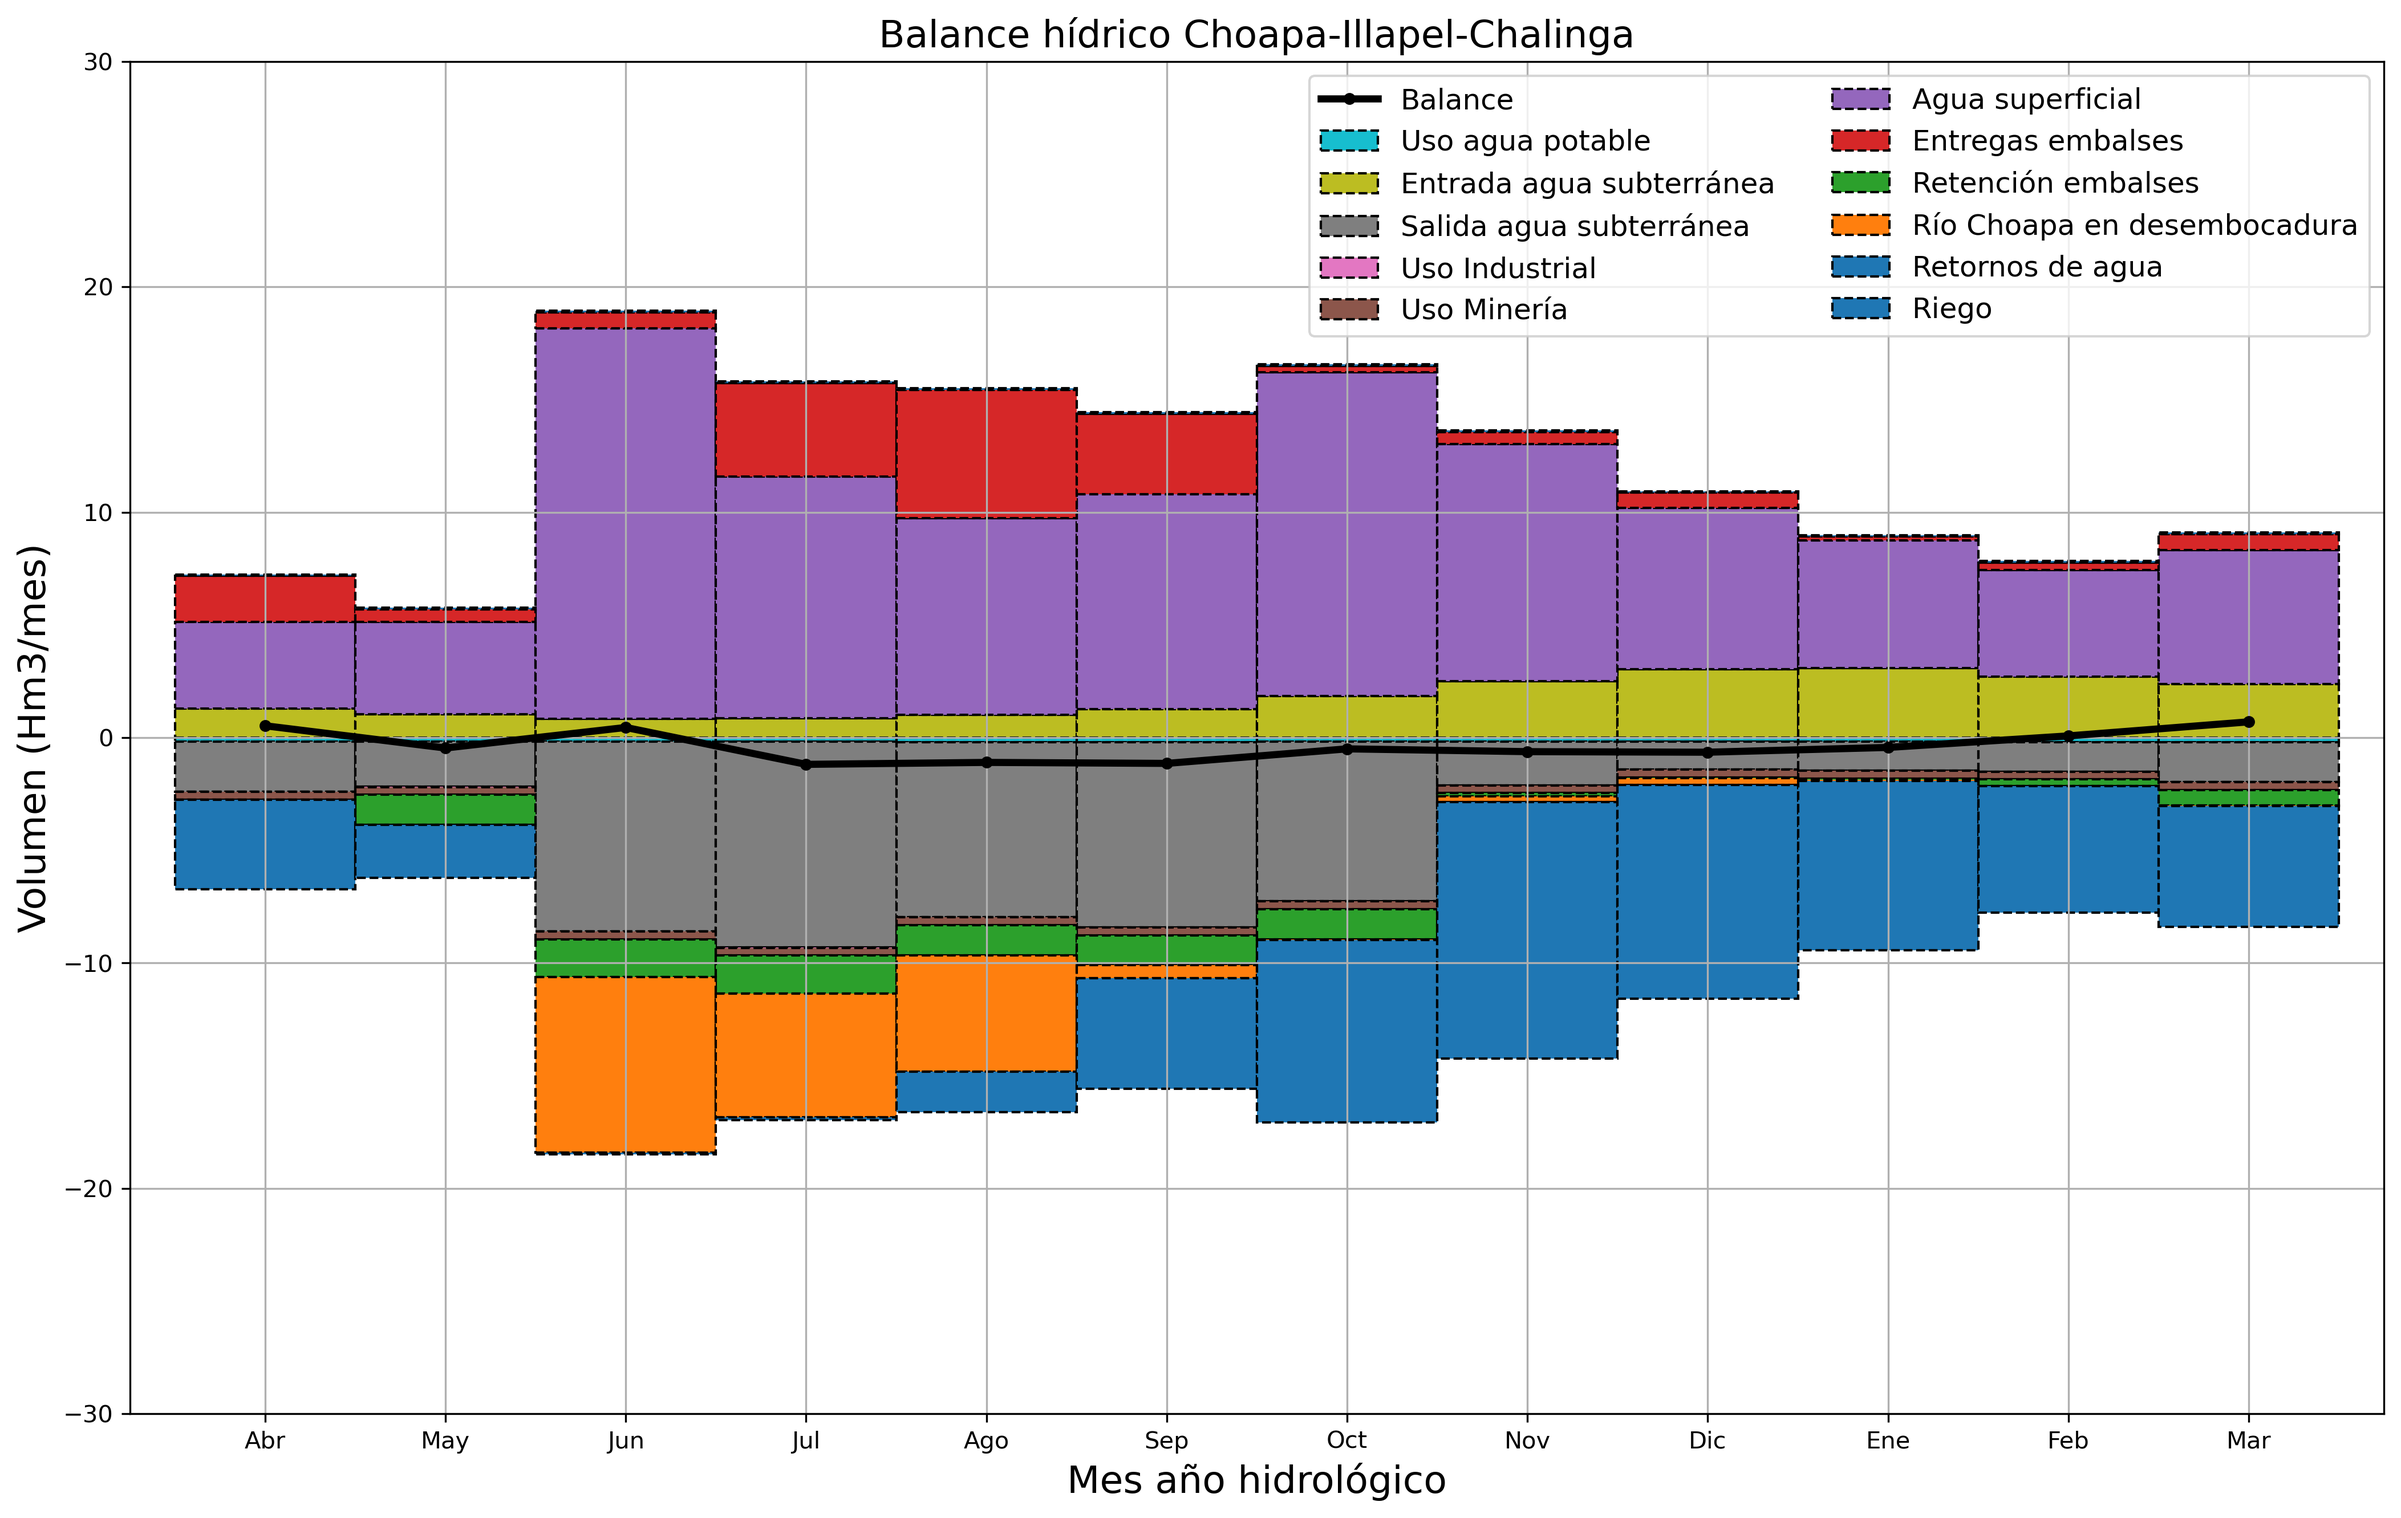
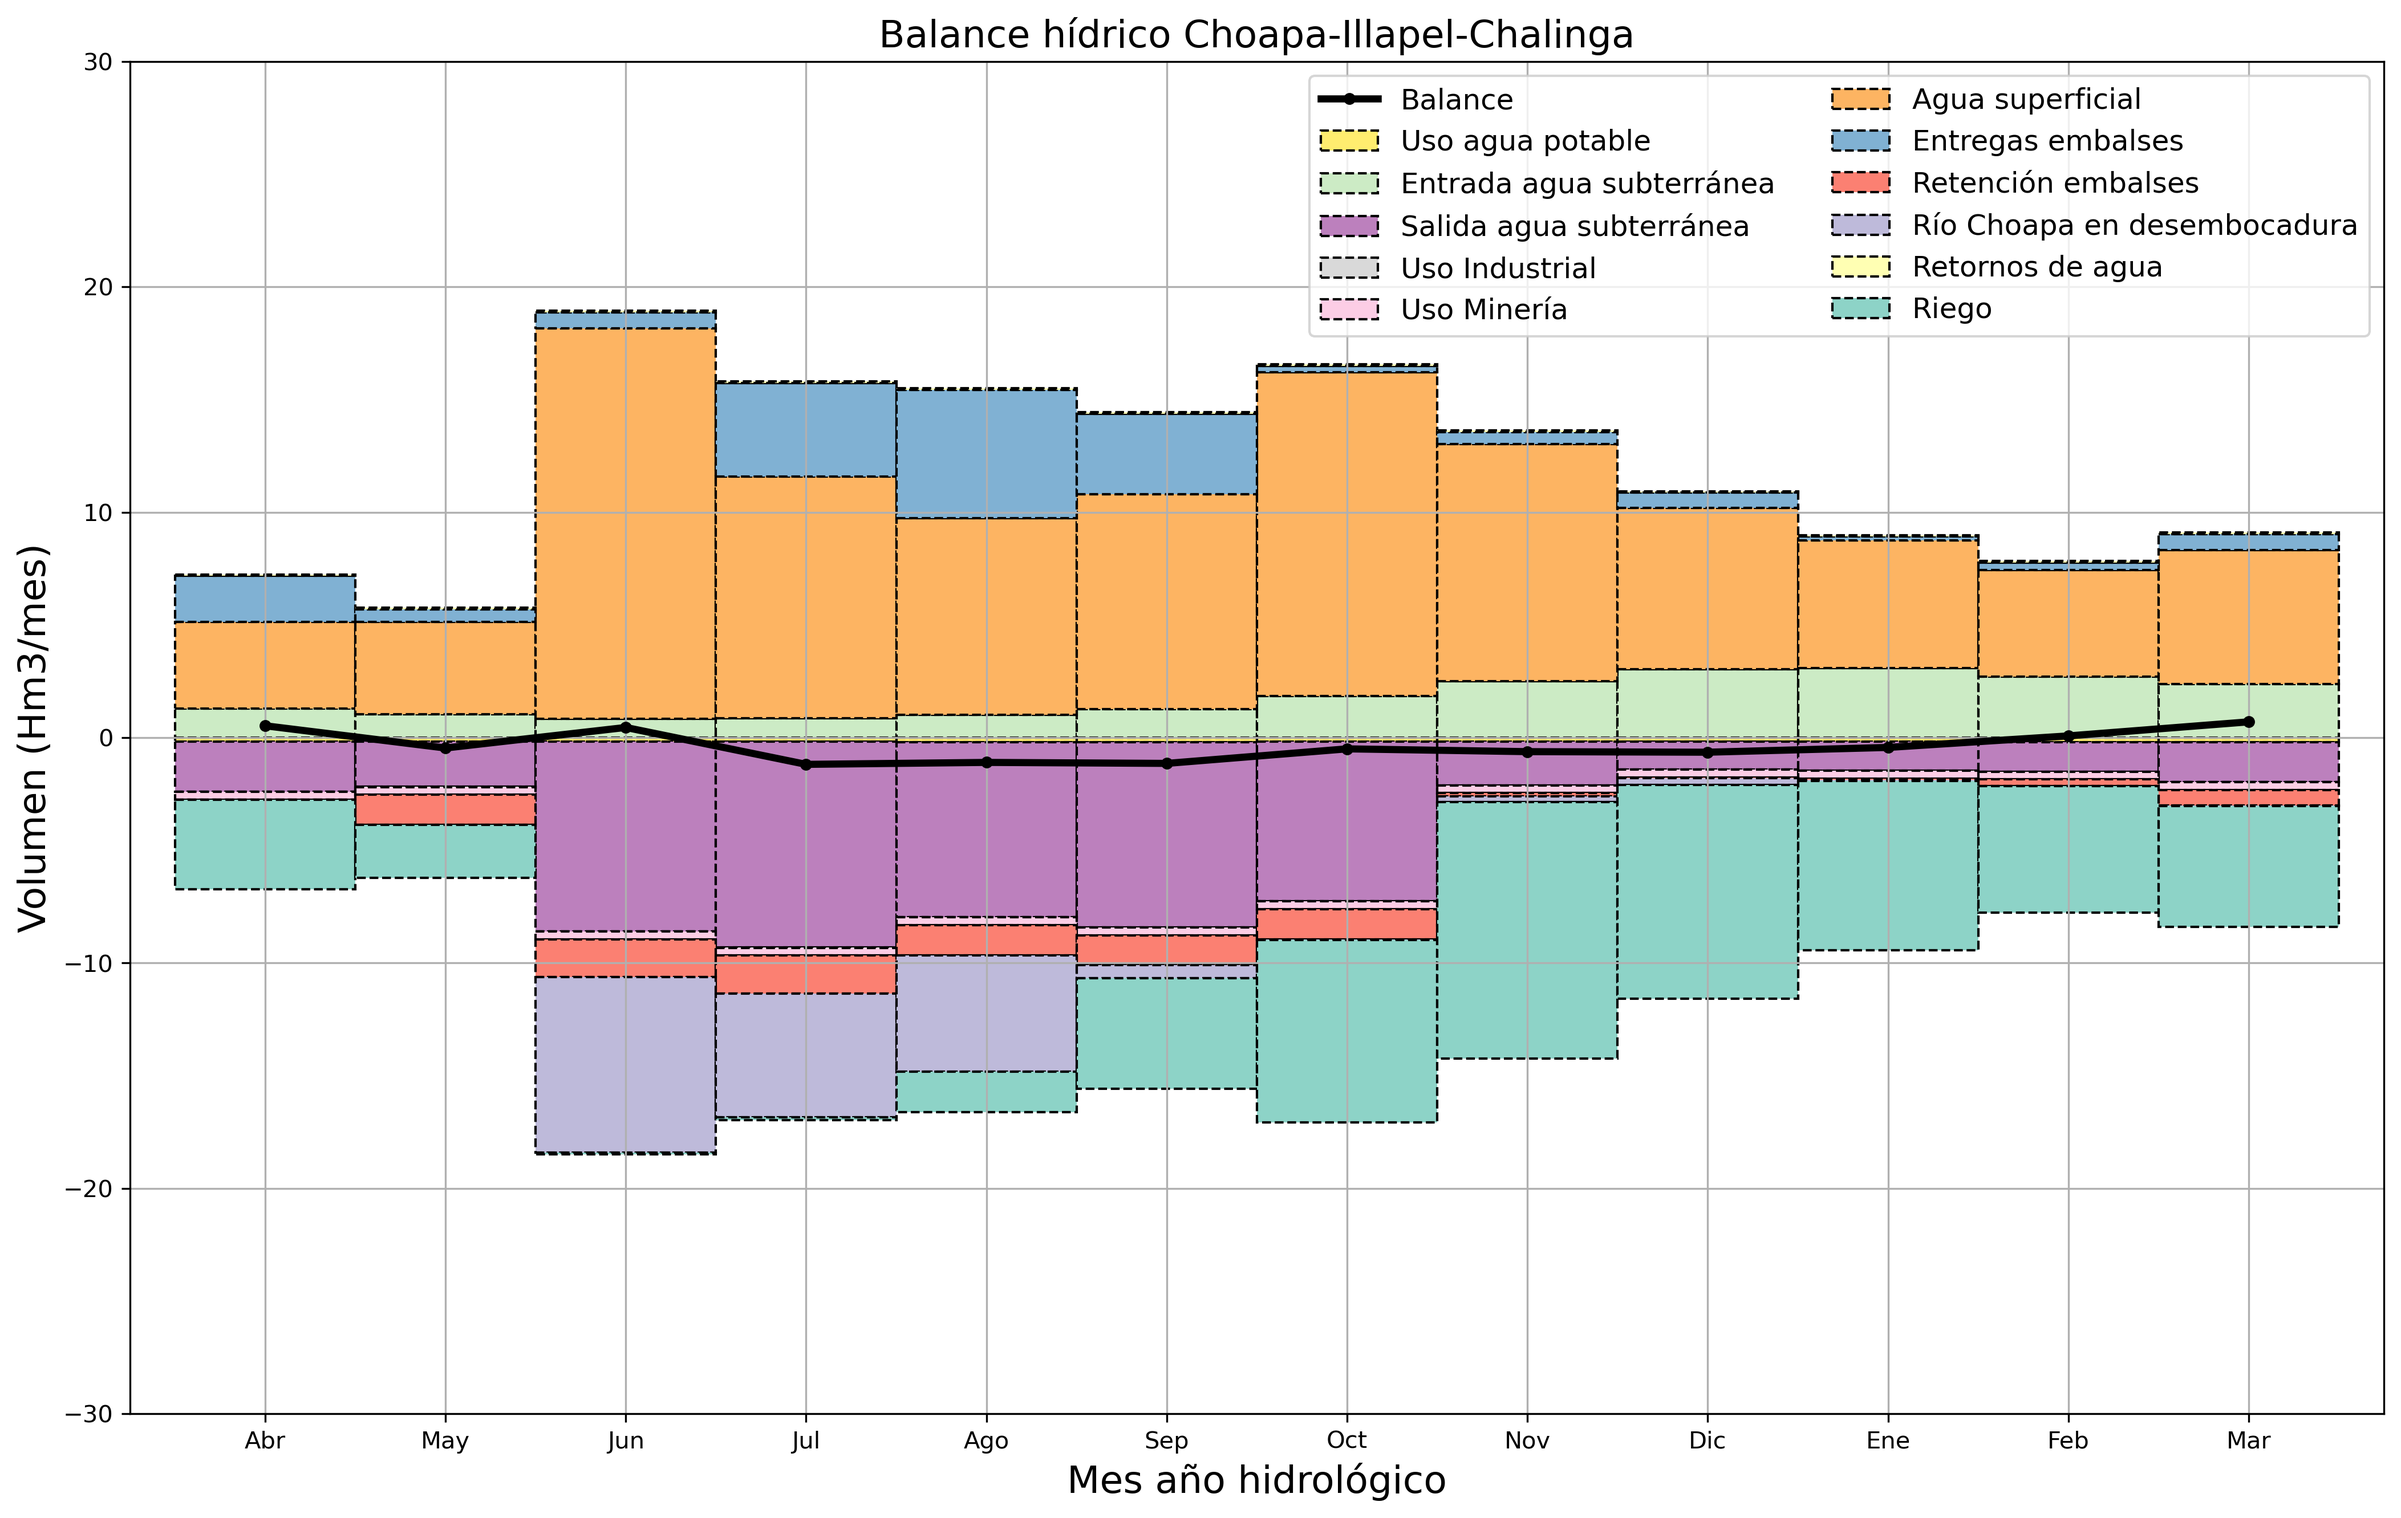
add: plots

diff --git a/src/balanceChoapa.py b/src/balanceChoapa.py
@@ -3,8 +3,6 @@
 import pandas as pd
 import os
 
-
-
 def index():
     return pd.date_range('1989-04-01','2021-03-01',freq='MS')
 
@@ -343,12 +341,13 @@ def main():
                      'Retornos de agua','Riego']
 
     plt.close('all')
-
+    import seaborn as sns   
+    palette = sns.color_palette('dark')
     fig, axes = plt.subplots(figsize = (17,11))
     sumas=pd.DataFrame(balance.sum(axis=1))
     balance.index=sumas.index
     balance.plot(stacked=True, kind = 'bar', grid=True, ax = axes,
-                 legend=False,rot=0,colormap="viridis",
+                 legend=False,rot=0,colormap='Set3_r',
                  edgecolor='k', width=1, linestyle="--")
 
     sumas.plot(ax=axes, kind = 'line', grid=True, color = 'black',
